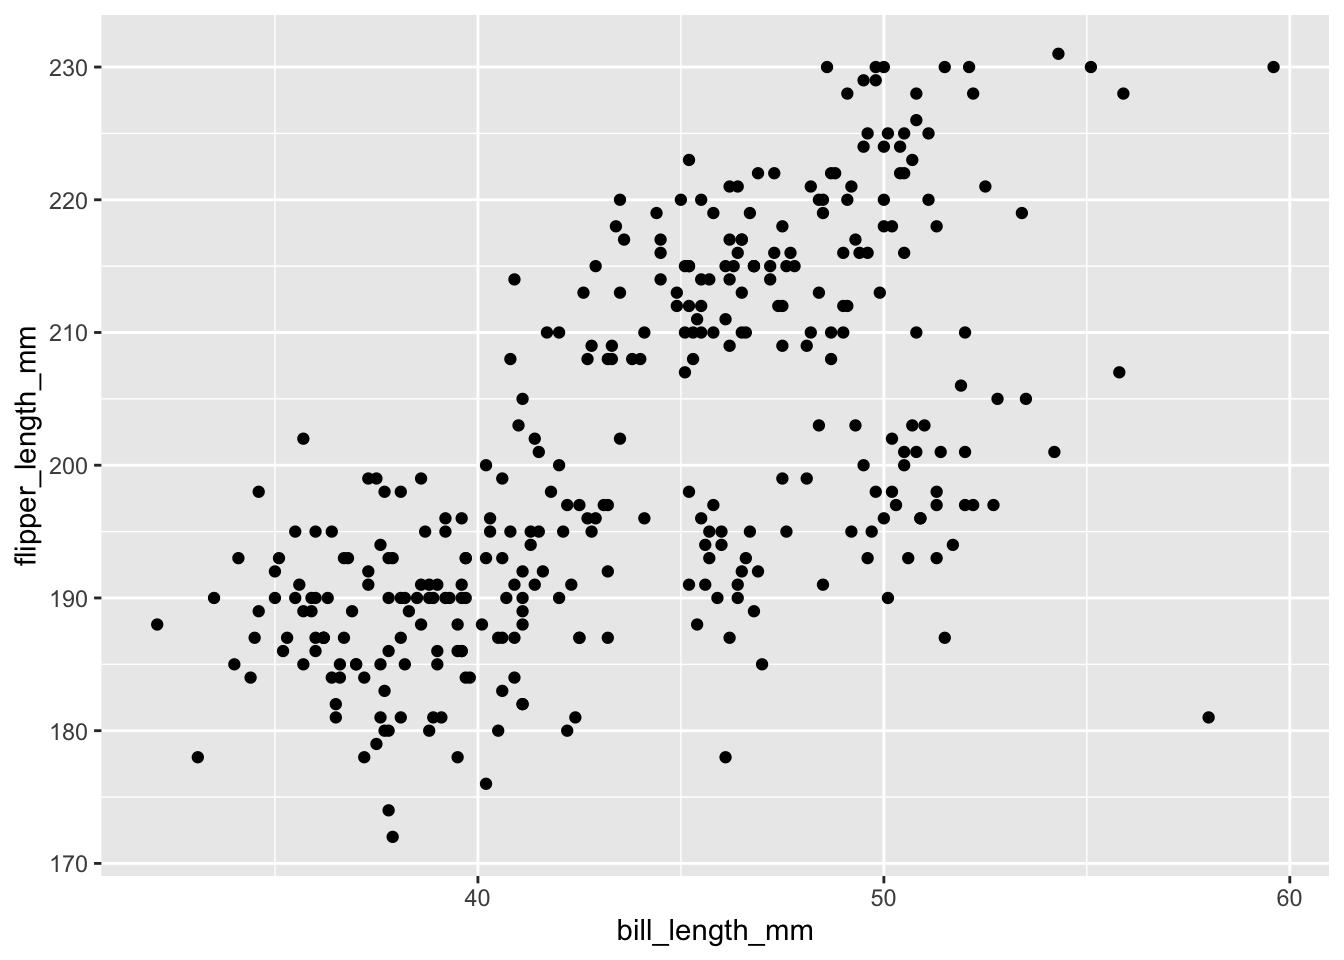
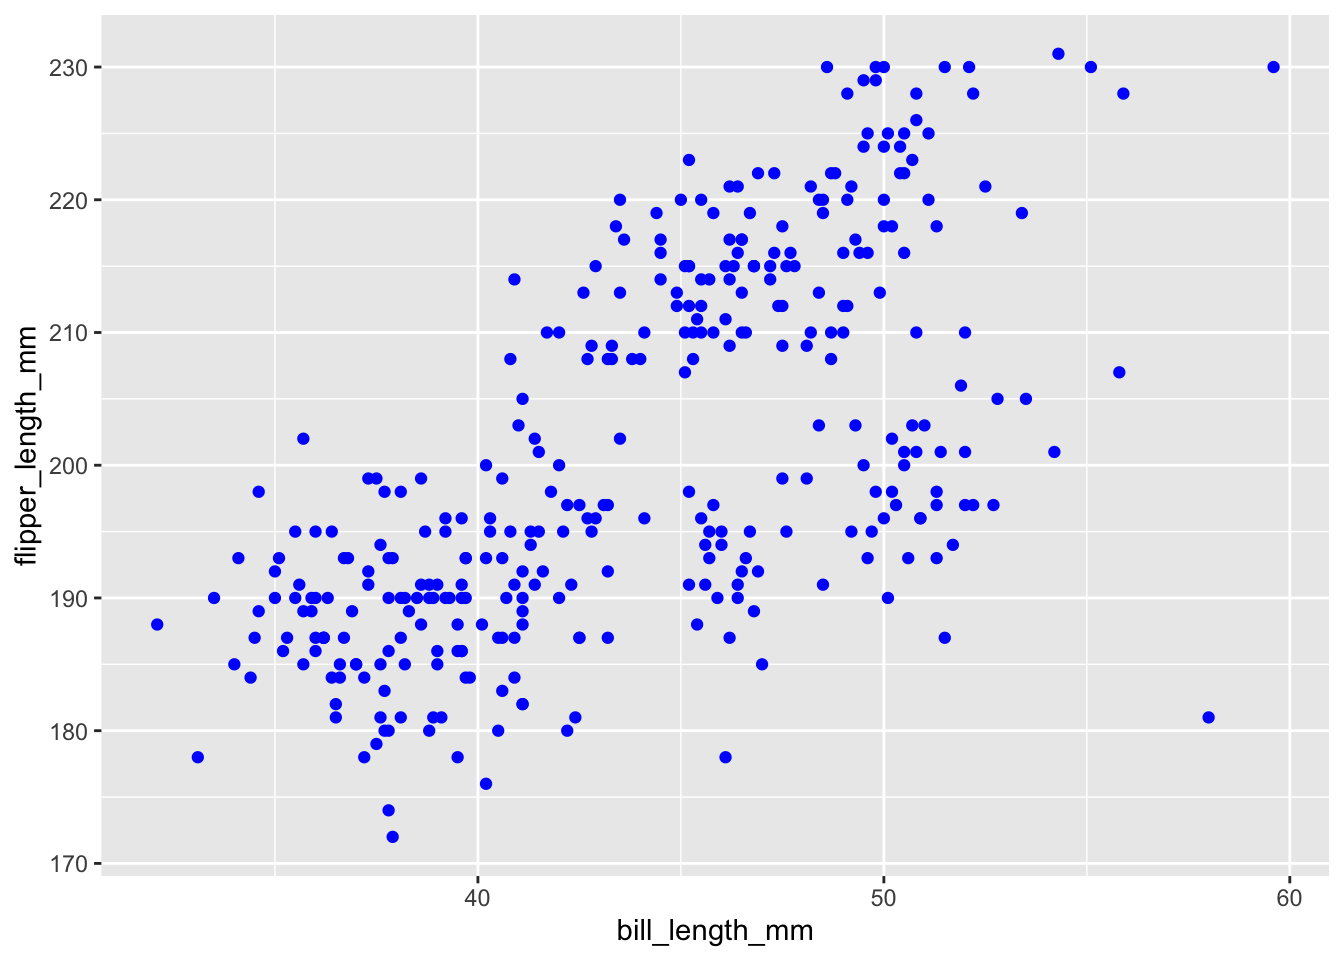
change graph dots to blue

diff --git a/my_penguins.html b/my_penguins.html
@@ -175,7 +175,7 @@ The following objects are masked from 'package:datasets':
 <div class="cell">
 <div class="code-copy-outer-scaffold"><div class="sourceCode cell-code" id="cb6"><pre class="sourceCode r code-with-copy"><code class="sourceCode r"><span id="cb6-1"><a href="#cb6-1" aria-hidden="true" tabindex="-1"></a>penguins <span class="sc">|&gt;</span></span>
 <span id="cb6-2"><a href="#cb6-2" aria-hidden="true" tabindex="-1"></a>  <span class="fu">ggplot</span>(<span class="fu">aes</span>(<span class="at">x =</span> bill_length_mm, <span class="at">y =</span> flipper_length_mm)) <span class="sc">+</span></span>
-<span id="cb6-3"><a href="#cb6-3" aria-hidden="true" tabindex="-1"></a>  <span class="fu">geom_point</span>()</span></code></pre></div><button title="Copy to Clipboard" class="code-copy-button"><i class="bi"></i></button></div>
+<span id="cb6-3"><a href="#cb6-3" aria-hidden="true" tabindex="-1"></a>  <span class="fu">geom_point</span>(<span class="at">color=</span><span class="st">"blue"</span>)</span></code></pre></div><button title="Copy to Clipboard" class="code-copy-button"><i class="bi"></i></button></div>
 <div class="cell-output cell-output-stderr">
 <pre><code>Warning: Removed 2 rows containing missing values or values outside the scale range
 (`geom_point()`).</code></pre>
